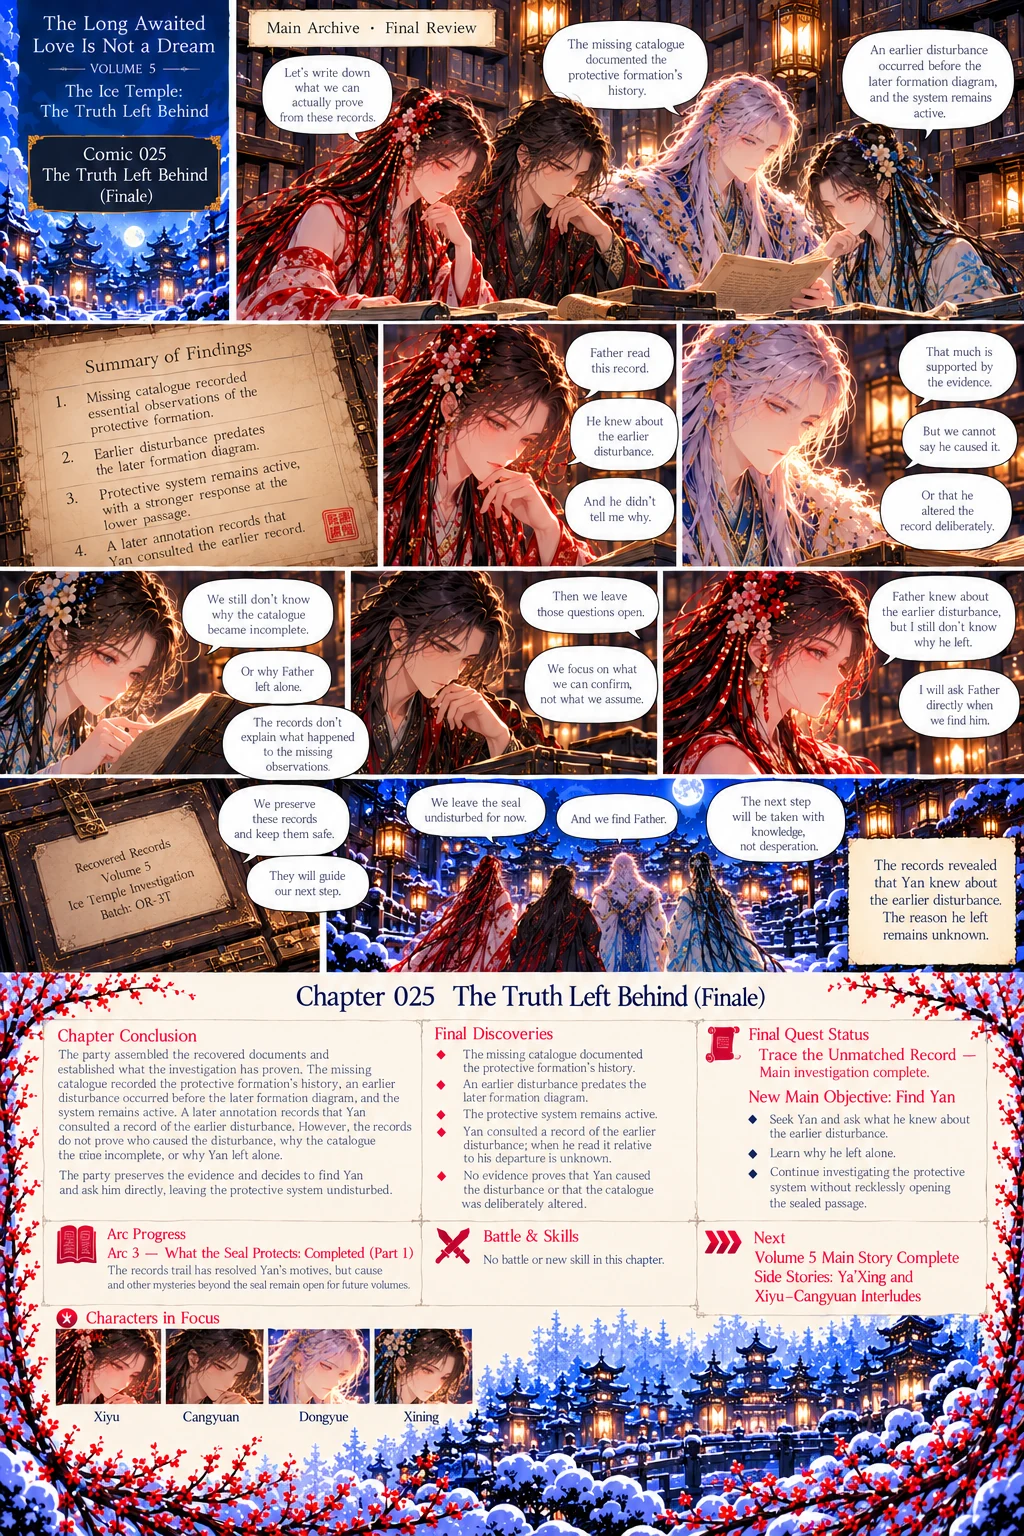
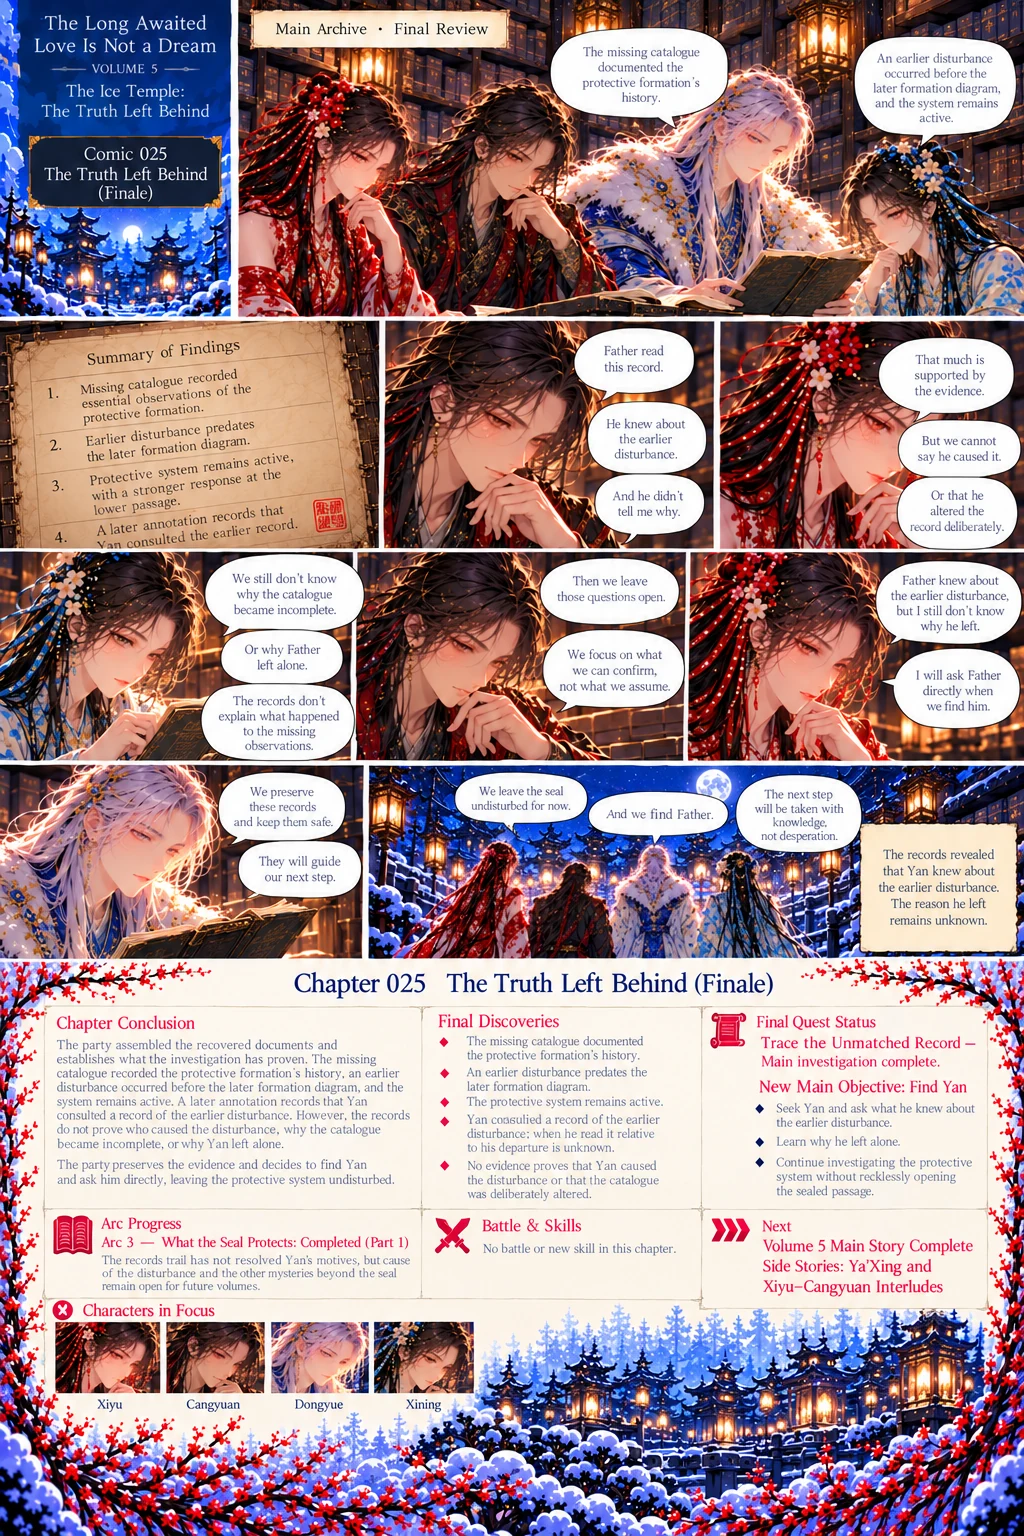
Volume 5: install re-supplied pages 019 and 025
Claude-Session: https://claude.ai/code/session_01XEYzSJa6dBuS74MycM45Hs

diff --git a/docs/VOLUME2.md b/docs/VOLUME2.md
@@ -207,3 +207,5 @@ Two Wilds zones open at chapter 117, for a party staying in the Ice Temple:
 - No Volume 5 cover has been supplied, so no cover splash fires at 193.
 - **Author edits received (comics 016, 018, 023, 025 re-supplied):** the reviewer is now **Su Chengyuan (蘇承遠)**, initials L.H. and S.C.Y.; Year 463 matches Volume 4; Yan's annotation is Year 475 (after the Year 472 diagram); comic 025 now says when Yan read the record relative to his departure is unknown. The game text follows these.
 - **Still to fix on the author's side:** comic 019 and the comic 017 dialogue still call the reviewer "Li Wen" (019: "I remember Li Wen", "Li Wen"); comic 017 may need checking. Typos: 025 "OR-3T" and "the crine incomplete"; 023 "thaat", "Butiat"; 018 "reorganiaation"; 016 "Raim:"; 013 "itr"; 002 garbled bubble; V4 052 "camme". 025's Arc Progress says "The records trail has resolved Yan's motives" (probably "has not resolved"). The "Year of Frost Moon" (001) and Years 2/3/12 in the registers are a separate, relative system.
+
+- **Re-supplied 025 and 019 (second pass):** both installed. 025's Arc Progress now reads "has not resolved Yan's motives" (fixed). 019 now says Su Chengyuan (蘇承遠). Remaining on 019: the batch number still reads "OR-3T" on the Transfer Record (the game uses OR-37, as on 020-021), and the Chapter Conclusion's last lines are garbled text ("The clerk remembers the former reviewereabouts. The surviving index to a prying plar cunsfer"). 025 now has a trailing tidy page; its "Yan consulted a record..." line matches the game.
